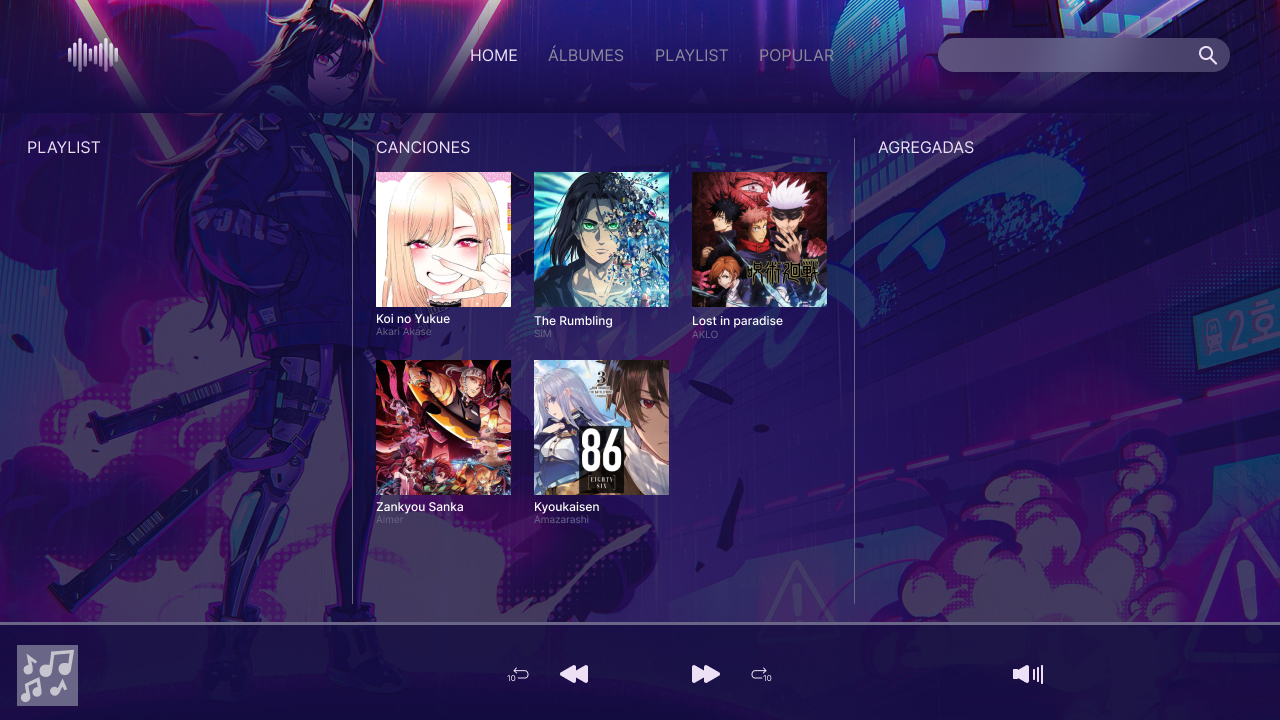
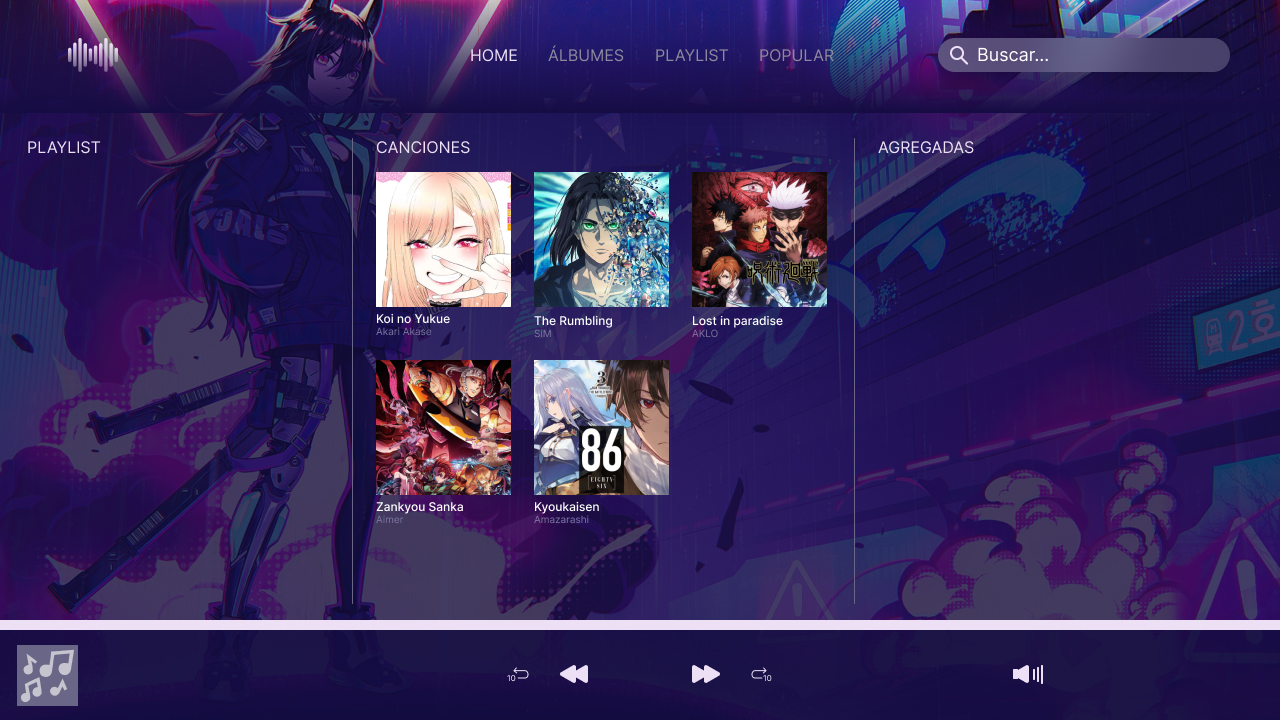
NATHALIA_MUÑOZ_COMMIT_9

Changed region(s): [[0.0, 0.8556, 1.0, 0.8861], [0.75, 0.0611, 0.8125, 0.0917], [0.9375, 0.0611, 0.9688, 0.0917]]

diff --git a/bar.js b/bar.js
@@ -5,7 +5,8 @@ class Bar {
     }
 
     pintar(l) {
-        fill(255);
+        noStroke();
+        fill(135, 14, 217);
         rect(0, 620, l , 10);
     }
 }
